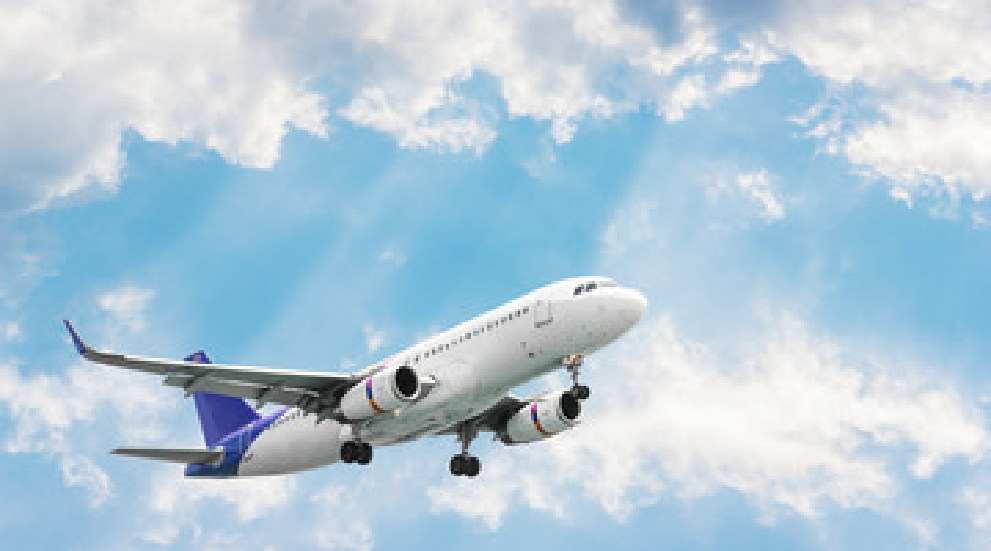
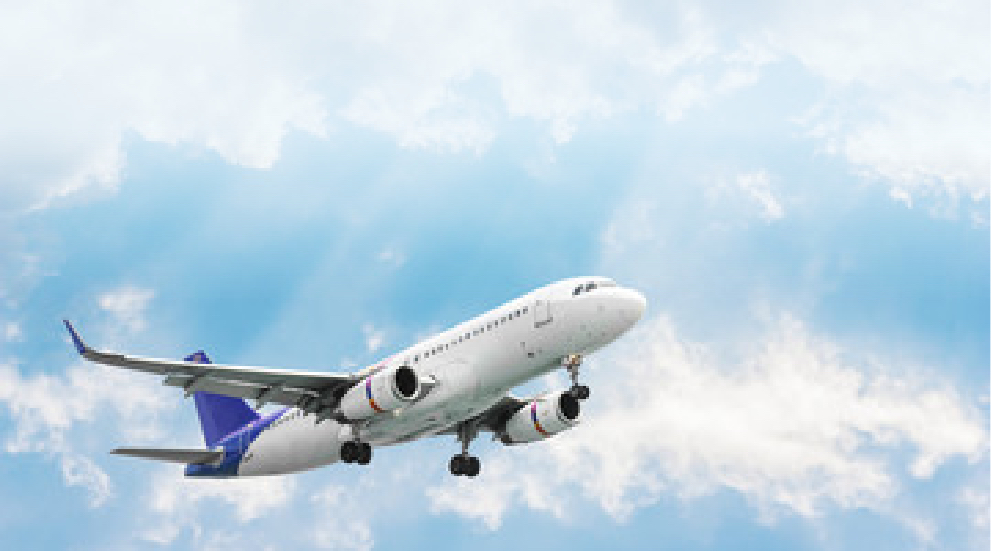
Edit: [static page] service in responsive

diff --git a/patinya-ktcworld-48933804d771/www/service.html b/patinya-ktcworld-48933804d771/www/service.html
@@ -241,7 +241,7 @@
     <div class="wrapper">
 
       <div class="page-image-header">
-        <img src="img/service-header.png" />
+        <img src="img/service-header.jpg" />
 
         <div class="overlay-breadcrumb">
           <div class="content-wrap">
@@ -329,7 +329,6 @@
     </div>
   </div>
 </div>
-<div class="global-space"></div>
     <div class="service-pro-wrap">
       <div class="content-wrap">
         <div class="page-info">

diff --git a/patinya-ktcworld-48933804d771/www/css/mobile-style.css b/patinya-ktcworld-48933804d771/www/css/mobile-style.css
@@ -601,6 +601,7 @@
 
   .world-service .static-wrap .text-on-center-img {
     position: relative;
+    padding-top: 20px;
   }
 
   .left-side,
@@ -650,6 +651,11 @@
   body .page-head .meta{
     font-size: 24px;
     line-height: 32px;
+  }
+
+  .eight-service-wrap{
+    padding-top: 0;
+    margin-top: -40px;
   }
 
   .eight-service-wrap > div:nth-child(odd){

diff --git a/patinya-ktcworld-48933804d771/www/css/style.css b/patinya-ktcworld-48933804d771/www/css/style.css
@@ -2157,13 +2157,14 @@ article.content-wrap{
 	font-size: 16px;
 	line-height: 26px;
 	position: relative;
-	margin-top: 100px;
+	margin-top: 40px;
 }
 
 .world-service h5{
 	font-size: 24px;
 	line-height: 39px;
 	position: relative;
+	margin: 0;
 }
 
 .world-service > .row > div{

diff --git a/patinya-ktcworld-48933804d771/www/css/ktc-world.css b/patinya-ktcworld-48933804d771/www/css/ktc-world.css
@@ -3786,7 +3786,7 @@ input:focus:-ms-input-placeholder, textarea:focus:-ms-input-placeholder {
 
 .page-image-header {
   position: relative;
-  margin-bottom: 60px;
+  margin-bottom: 40px;
 }
 
 @media only screen and (max-width: 767px) {
